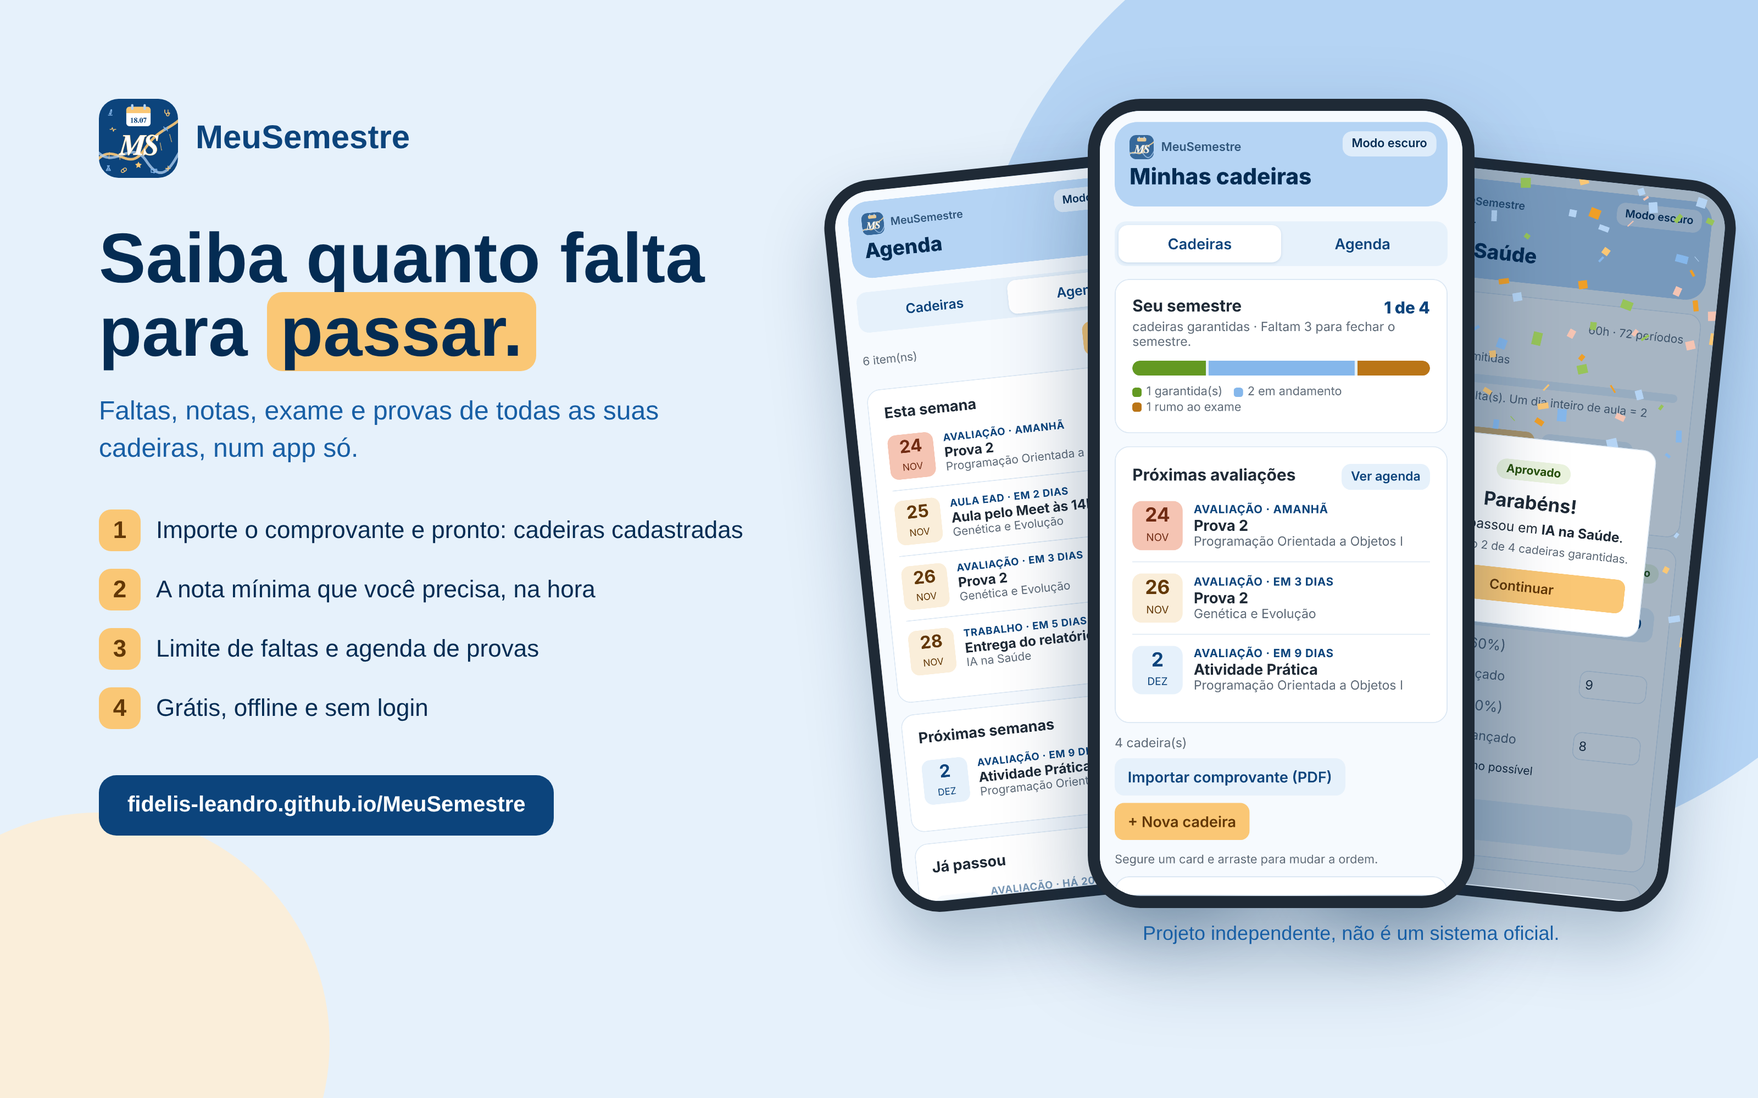
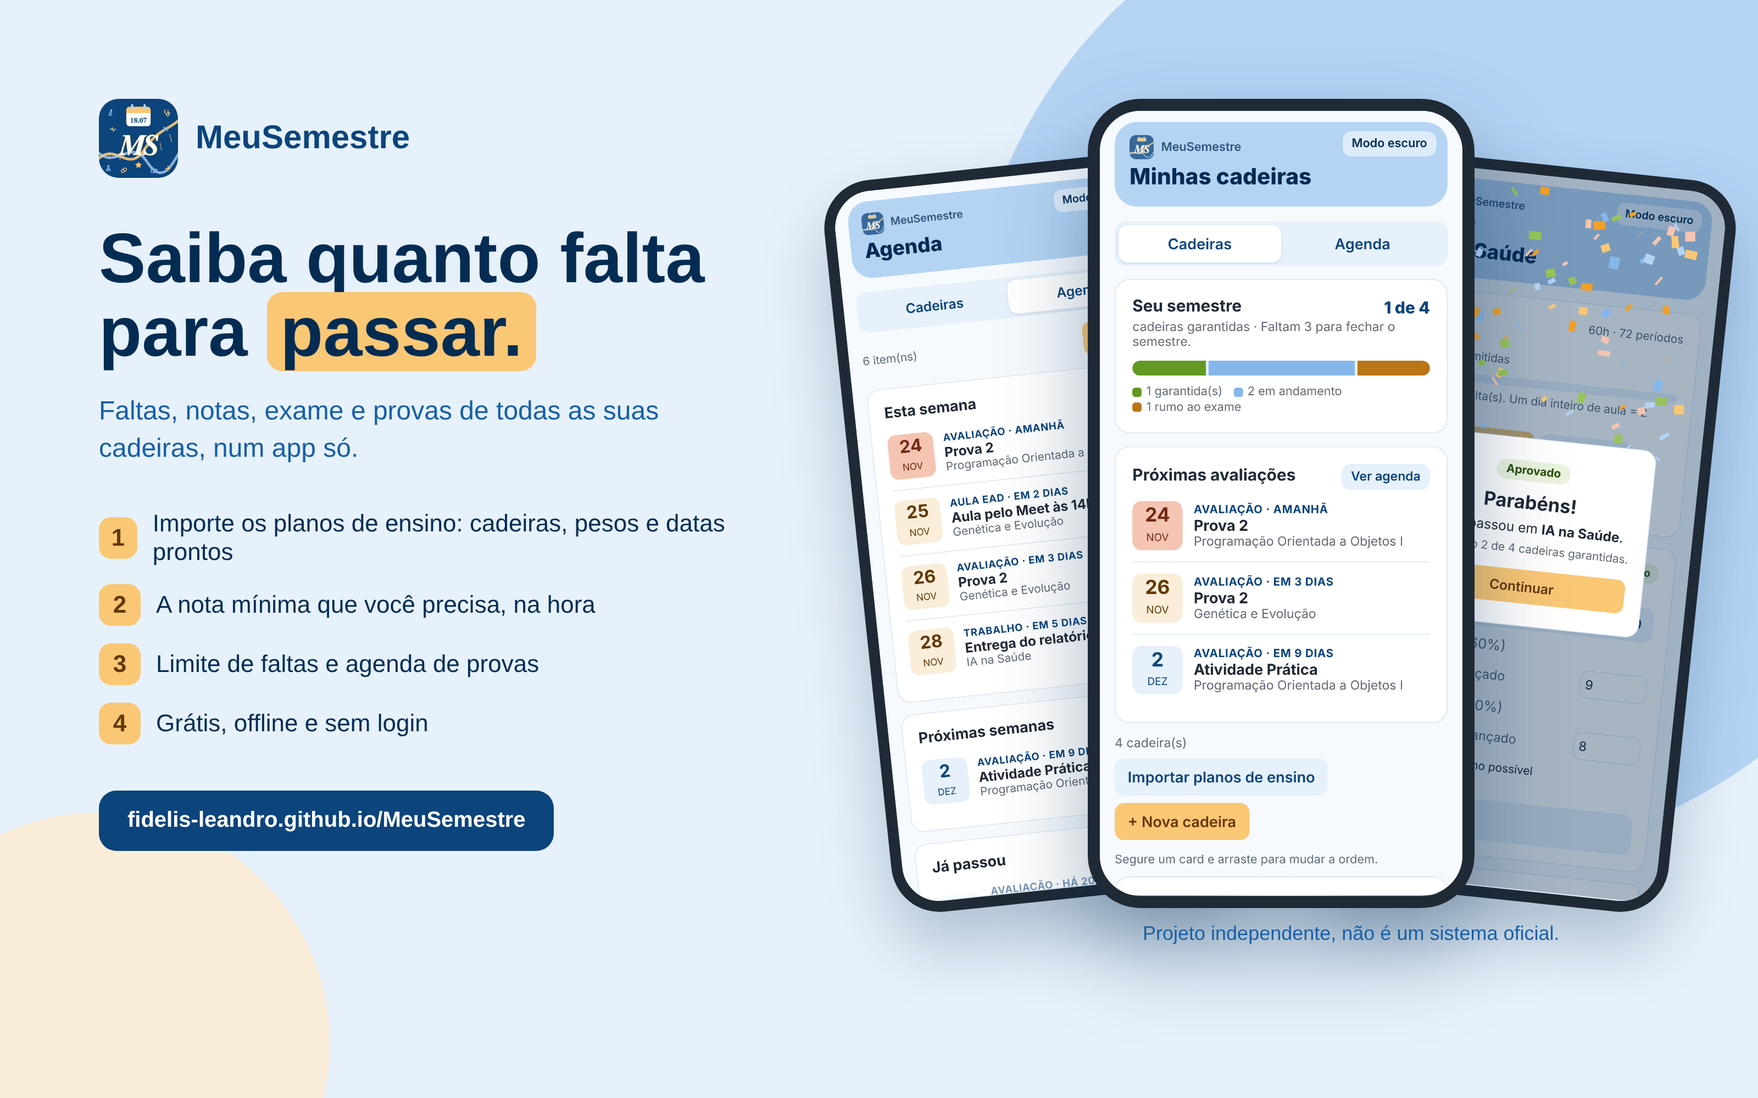
Add files via upload

diff --git a/index.html b/index.html
@@ -213,8 +213,8 @@ function achar(i){ return dados.cadeiras.find(c=>c.id===i); }
 
 function telaLista(){
   const prox=itensAgenda().filter(x=>diasAte(x.data)>=0 && x.tipo==="Avaliação" && !x.lancada).slice(0,3);
-  let h=abas("lista")+avisoBackup()+termometro()+(prox.length?`<div class="card"><div class="linha entre"><h2>Próximas avaliações</h2><button class="sec mini" onclick="ir('agenda')">Ver agenda</button></div>${prox.map(itemAgendaHTML).join("")}</div>`:"")+`<div class="linha entre" style="margin-bottom:14px"><span class="meta">${dados.cadeiras.length} cadeira(s)</span><div class="linha"><button class="sec" onclick="document.getElementById('pdf-in').click()">Importar comprovante (PDF)</button><button onclick="ir('form')">+ Nova cadeira</button></div></div>
-  <input type="file" id="pdf-in" accept="application/pdf" style="display:none" onchange="importarPDF(this.files[0]);this.value=''">
+  let h=abas("lista")+avisoBackup()+termometro()+(prox.length?`<div class="card"><div class="linha entre"><h2>Próximas avaliações</h2><button class="sec mini" onclick="ir('agenda')">Ver agenda</button></div>${prox.map(itemAgendaHTML).join("")}</div>`:"")+`<div class="linha entre" style="margin-bottom:14px"><span class="meta">${dados.cadeiras.length} cadeira(s)</span><div class="linha"><button class="sec" onclick="document.getElementById('pdf-in').click()">Importar planos de ensino</button><button onclick="ir('form')">+ Nova cadeira</button></div></div>
+  <input type="file" id="pdf-in" accept="application/pdf,.pdf" multiple style="display:none" onchange="importarPlanos(this.files);this.value=''">
   <div id="imp-msg"></div>`;
   if(!dados.cadeiras.length) return abas("lista")+`
     <div class="card" style="text-align:center;padding:24px 18px">
@@ -222,14 +222,14 @@ function telaLista(){
       <div class="meta" style="margin:6px 0 18px">Cadastre suas cadeiras para acompanhar faltas, notas e provas.</div>
       <div style="background:var(--primaria-clara);border-radius:14px;padding:16px;text-align:left">
         <div class="tag" style="margin-bottom:4px">Mais rápido</div>
-        <div style="font-weight:700;font-size:1.05rem;color:var(--primaria)">Importar o comprovante de matrícula</div>
-        <div class="meta" style="margin:6px 0 12px">Baixe o <b>Comprovante de Matrícula</b> em PDF no portal do aluno e escolha o arquivo aqui. O app cadastra todas as cadeiras, com carga horária e horários das aulas. O arquivo é lido só no seu celular e não é enviado para lugar nenhum.</div>
-        <button style="width:100%" onclick="document.getElementById('pdf-in').click()">Escolher o PDF do comprovante</button>
+        <div style="font-weight:700;font-size:1.05rem;color:var(--primaria)">Importar os planos de ensino</div>
+        <div class="meta" style="margin:6px 0 12px">Baixe o <b>Plano de Ensino</b> de cada cadeira em PDF (no Moodle ou com o professor) e escolha todos de uma vez. O app cadastra as cadeiras com carga horária, horários, avaliações, pesos e datas de prova. O plano é um documento público da disciplina, sem dados pessoais.</div>
+        <button style="width:100%" onclick="document.getElementById('pdf-in').click()">Escolher os planos de ensino (PDF)</button>
       </div>
       <div class="meta" style="margin:14px 0 8px">ou</div>
       <button class="sec" style="width:100%" onclick="ir('form')">Cadastrar uma cadeira manualmente</button>
     </div>
-    <input type="file" id="pdf-in" accept="application/pdf,.pdf" style="display:none" onchange="importarPDF(this.files[0]);this.value=''">
+    <input type="file" id="pdf-in" accept="application/pdf,.pdf" multiple style="display:none" onchange="importarPlanos(this.files);this.value=''">
     <div id="imp-msg"></div>`+cardBackup();
   const manual=dados.ordem==="manual";
   h+=`<div class="meta" style="font-size:.8rem;margin:4px 0 10px">Segure um card e arraste para mudar a ordem.</div><div id="lista-cad">`;
@@ -413,7 +413,7 @@ function telaSobre(){
       ${lk("https://github.com/Fidelis-Leandro","Outros projetos")}
     </div></div>
   <div class="card"><h2>Seus dados</h2>
-    <div class="meta" style="margin-top:6px">Tudo o que você cadastra fica salvo só neste aparelho. Não há login, servidor nem coleta de dados. O comprovante de matrícula é lido no próprio celular e não é enviado para lugar nenhum. Use o backup para levar seus dados para outro aparelho.</div></div>
+    <div class="meta" style="margin-top:6px">Tudo o que você cadastra fica salvo só neste aparelho. Não há login, servidor nem coleta de dados. Os planos de ensino são lidos no próprio celular e não são enviados para lugar nenhum. Use o backup para levar seus dados para outro aparelho.</div></div>
   <div class="card"><h2>Aviso</h2>
     <div class="meta" style="margin-top:6px">Este é um projeto independente e não é um sistema oficial da UFCSPA. Os cálculos seguem as regras de média 7, exame com média final 6 e presença mínima de 75%. Em caso de dúvida, confira sempre no portal oficial.</div></div>`;
 }
@@ -576,9 +576,8 @@ function restaurarBackup(){
   _backupPendente=null; salvar(); ir("lista");
 }
 
-/* ---------- Importar comprovante de matrícula (PDF) ---------- */
+/* ---------- Leitura de PDF ---------- */
 const PDFJS=new URL("./",location.href).href;
-let _importadas=[];
 // Safari antigo não sabe percorrer ReadableStream com "for await"; o PDF.js precisa disso.
 function polyfillStream(){
   if(typeof ReadableStream==="undefined" || ReadableStream.prototype[Symbol.asyncIterator]) return;
@@ -599,49 +598,148 @@ async function linhasDoPDF(arquivo){
   }
   return linhas;
 }
-function lerComprovante(linhas){
-  const cad={}, ordem=[];
-  const reCad=/^([A-Z]{2,4}\d{4,5})\s+(\S{1,3})\s+(\d{3,5})\s+(.+?)\s+(\d{2,3})$/;
-  const reAula=/^(Segunda|Terça|Quarta|Quinta|Sexta|Sábado|Domingo)\S*\s+(\d{1,2}):(\d{2})\s+(\d{1,2}):(\d{2}).*?([A-Z]{2,4}\d{4,5})\s*-/;
-  linhas.forEach(l=>{
-    let m=l.match(reCad);
-    if(m){ if(!cad[m[1]]){ cad[m[1]]={codigo:m[1],nome:m[4],ch:+m[5],aulas:[]}; ordem.push(m[1]); } return; }
-    m=l.match(reAula);
-    if(m && cad[m[6]]){ const min=(+m[4]*60+ +m[5])-(+m[2]*60+ +m[3]); cad[m[6]].aulas.push({dia:m[1],periodos:Math.max(1,Math.round(min/50))}); }
-  });
-  return ordem.map(k=>cad[k]);
+/* ---------- Importar plano de ensino (PDF) ---------- */
+const DIAS=["Segunda","Terça","Quarta","Quinta","Sexta","Sábado","Domingo"];
+const ROMANOS={i:1,ii:2,iii:3,iv:4,v:5};
+function semAcento(t){ return t.normalize("NFD").replace(/[̀-ͯ]/g,"").toLowerCase(); }
+function limparNomeAval(tipo,desc){
+  let n=desc.replace(/\s+/g," ").trim().replace(/[,.;\s]+$/,"");
+  n=n.replace(/\s*(valendo|vale|com peso|de peso)\b.*$/i,"").trim();
+  if(n.includes(":")) n=n.split(":")[0].trim();
+  if(n.length>32){ const c=n.split(/[,.;(]/)[0].trim(); n=c.length<=32?c:""; }
+  if(!n || /^(prova|trabalho)$/i.test(n)&&false) n="";
+  if(!n){ const t=semAcento(tipo); n=t.includes("prova")?"Prova":t.includes("trabalho")?"Trabalho":t.includes("apresenta")?"Apresentação":"Atividade"; }
+  return n.charAt(0).toUpperCase()+n.slice(1);
 }
-async function importarPDF(f){
-  if(!f) return;
+function numeroDe(t){
+  const s=semAcento(t);
+  let m=s.match(/(?:prova|avaliacao|av)\s*0?(\d)\b/)||s.match(/\b0?(\d)\s*[ªaº]?\s*(?:prova|avaliacao)/);
+  if(m) return +m[1];
+  m=s.match(/\b(iv|v|i{1,3})\s*(?:prova|avaliacao)/)||s.match(/(?:prova|avaliacao)\s+(iv|v|i{1,3})\b/);
+  return m?ROMANOS[m[1]]:null;
+}
+function lerPlano(linhas){
+  const txt=linhas.join("\n");
+  const pega=re=>{ const m=txt.match(re); return m?m[1].trim():""; };
+  const codigo=pega(/C[óo]digo da Disciplina:\s*([A-Z]{2,5}\d{3,6})/);
+  const nome=pega(/Nome da Disciplina:\s*(.+)/);
+  if(!codigo && !nome) return null;
+  const ch=+pega(/Carga Hor[áa]ria Total \(horas\):\s*(\d+)/)||60;
+  const ano=+pega(/\bANO:\s*(\d{4})/)||new Date().getFullYear();
+  const aulas=[]; const diasTxt=pega(/Dia\(s\) da Semana:\s*(.+)/);
+  for(const m of diasTxt.matchAll(/(Segunda|Terça|Quarta|Quinta|Sexta|Sábado|Domingo)\S*\s*\((\d{1,2}):(\d{2})\s*-\s*(\d{1,2}):(\d{2})\)/g)){
+    const min=(+m[4]*60+ +m[5])-(+m[2]*60+ +m[3]); aulas.push({dia:m[1],periodos:Math.max(1,Math.round(min/50))});
+  }
+  // avaliações
+  const ini=linhas.findIndex(l=>/Crit[ée]rios de Avalia/i.test(l)); let avaliacoes=[];
+  if(ini>=0){
+    let bloco=[]; for(let i=ini+1;i<linhas.length;i++){ const l=linhas[i]; if(/^(Bibliografia|Recupera|Observa|BLOCO|Plano de Ensino|Cronograma)/i.test(l)) break; bloco.push(l); }
+    const itens=[]; bloco.forEach(l=>{ if(/^[A-ZÀ-Ú][^\-]{1,45}?\s-\s/.test(l)||!itens.length) itens.push(l); else itens[itens.length-1]+=" "+l; });
+    itens.forEach(it=>{
+      const m=it.match(/^(.+?)\s-\s(.+)$/); if(!m) return;
+      const pesos=[...it.matchAll(/de peso\s*(\d+(?:[.,]\d+)?)/gi)]; if(!pesos.length) return;
+      const tipo=m[1].trim(), desc=m[2].replace(/,\s*de peso\s*\d+(?:[.,]\d+)?\s*%?\.?\s*$/i,"");
+      const peso=parseFloat(pesos[pesos.length-1][1].replace(",","."));
+      const pct=desc.match(/(\d+(?:[.,]\d+)?)\s*%/);
+      avaliacoes.push({tipo,nome:limparNomeAval(tipo,desc),peso,pct:pct?parseFloat(pct[1].replace(",",".")):0,texto:tipo+" "+desc});
+    });
+    if(avaliacoes.length && avaliacoes.every(a=>!a.peso)) avaliacoes.forEach(a=>a.peso=a.pct);
+    const soma=avaliacoes.reduce((t,a)=>t+a.peso,0);
+    if(soma>0){ let acc=0; avaliacoes.forEach((a,i)=>{ a.peso=i<avaliacoes.length-1?Math.round(a.peso*1000/soma)/10:Math.round((100-acc)*10)/10; acc+=a.peso; }); }
+    const vistos={}; avaliacoes.forEach(a=>{ const k=a.nome.toLowerCase(); vistos[k]=(vistos[k]||0)+1; if(vistos[k]>1) a.nome+=" "+vistos[k]; });
+  }
+  // cronograma
+  const reData=new RegExp(`^(\\d{2})/(\\d{2})(?:/(\\d{2,4}))?\\s+(${DIAS.join("|")})\\b\\s*(.*)$`);
+  const ci=linhas.findIndex(l=>/CRONOGRAMA/i.test(l)); const fim=linhas.findIndex((l,i)=>i>ci&&/^Data de Conclus/i.test(l));
+  const corpo=ci>=0?linhas.slice(ci,fim>0?fim:linhas.length).filter(l=>!/^(Plano de Ensino|PROGRAD\/PROPPGI|\d+\s*\/\s*\d+)$/.test(l.trim())):[];
+  const idx=[]; corpo.forEach((l,i)=>{ if(reData.test(l)) idx.push(i); });
+  const aulasPlano=idx.map((p,k)=>{
+    const de=k?Math.floor((idx[k-1]+p)/2)+1:p, ate=k<idx.length-1?Math.floor((p+idx[k+1])/2):Math.min(corpo.length-1,p+4);
+    const m=corpo[p].match(reData), resto=m[5];
+    const tm=resto.match(/^((?:[A-Z])(?:\s*,\s*[A-Z])*)(?=\s|$)/);
+    return {data:`${m[3]?(m[3].length===2?"20"+m[3]:m[3]):ano}-${m[2]}-${m[1]}`,dia:m[4],turmas:tm?tm[1].split(/\s*,\s*/):[],texto:corpo.slice(de,ate+1).join(" ")};
+  });
+  const turmas=[...new Set(aulasPlano.filter(a=>a.turmas.length===1).map(a=>a.turmas[0]))].sort();
+  return {codigo,nome,ch,aulas,avaliacoes,aulasPlano,turmas:turmas.length>1?turmas:[],turma:turmas.length>1?turmas[0]:null,marcada:true,ead:true,datas:true};
+}
+function datasDoPlano(p){
+  const rows=p.aulasPlano.filter(a=>!p.turma||!a.turmas.length||a.turmas.includes(p.turma));
+  const s=r=>semAcento(r.texto);
+  const exame=rows.find(r=>/\bexame\b/.test(s(r)) && !/para o exame|orientac/.test(s(r)));
+  const provas=rows.filter(r=>r!==exame && /\bprova\b|\bavaliacao\b/.test(s(r)) && !/revis|correc|vista|devolu|plano de ensino|metodo de avaliacao|avaliacao formativa/.test(s(r)));
+  const ehEad=r=>/moodle|distancia|\bead\b/.test(s(r)) && !/\bpresencial\b/.test(s(r).replace(/presencial\./g,""));
+  const presenciais=new Set(rows.filter(r=>!ehEad(r)).map(r=>r.data));
+  const ead=[...new Map(rows.filter(r=>ehEad(r)&&!presenciais.has(r.data)&&r!==exame).map(r=>[r.data,r])).values()];
+  const usados=new Set(), datas={};
+  const ehProva=a=>/prova|avalia/.test(semAcento(a.texto)) && !/trabalho|semin|apresenta|questionar|atividades de aula/.test(semAcento(a.nome));
+  p.avaliacoes.forEach((a,i)=>{ if(!ehProva(a)) return; const n=numeroDe(a.nome);
+    let r=n?provas.find(r=>!usados.has(r)&&numeroDe(r.texto)===n):null;
+    if(!r) r=provas.find(r=>!usados.has(r)); if(r){ usados.add(r); datas[i]=r.data; } });
+  return {datas,exame:exame?exame.data:null,ead};
+}
+function aulasDoPlano(p){
+  const rows=p.aulasPlano.filter(a=>(!p.turma||!a.turmas.length||a.turmas.includes(p.turma)) && !/moodle|distancia/.test(semAcento(a.texto)));
+  const cont={}; rows.forEach(r=>cont[r.dia]=(cont[r.dia]||0)+1);
+  const dias=DIAS.filter(d=>(cont[d]||0)>=3);
+  if(!dias.length) return p.aulas;
+  const padrao=p.aulas[0]?p.aulas[0].periodos:2;
+  return dias.map(d=>{ const a=p.aulas.find(x=>x.dia===d); return {dia:d,periodos:a?a.periodos:padrao}; });
+}
+let _planos=[];
+async function importarPlanos(lista){
+  const arqs=[...(lista||[])]; if(!arqs.length) return;
   const msg=document.getElementById("imp-msg");
-  msg.innerHTML=`<div class="card meta">Lendo o comprovante...</div>`;
-  try{
-    _importadas=lerComprovante(await linhasDoPDF(f));
-    if(!_importadas.length){ msg.innerHTML=`<div class="card" style="color:var(--erro)">Não encontrei cadeiras neste PDF. Use o Comprovante de Matrícula gerado pelo Portal do Aluno.</div>`; return; }
-    _importadas.forEach(c=>c.marcada=!dados.cadeiras.some(x=>x.codigo===c.codigo));
-    ir("importar");
-  }catch(e){ console.error(e); msg.innerHTML=`<div class="card"><div style="color:var(--erro);font-weight:700">Não consegui ler este PDF.</div>
-    <div class="meta" style="margin-top:6px">Confira se é o Comprovante de Matrícula baixado do portal (não uma foto ou print). Se continuar, cadastre as cadeiras manualmente em "+ Nova cadeira".</div>
-    <div class="meta" style="margin-top:6px;font-size:.75rem">Detalhe técnico: ${esc(e&&e.message||String(e))}</div></div>`; }
+  msg.innerHTML=`<div class="card meta">Lendo ${arqs.length} plano(s) de ensino...</div>`;
+  const lidos=[], falhas=[]; let erro=null;
+  for(const f of arqs){
+    try{ const p=lerPlano(await linhasDoPDF(f)); if(p) lidos.push(p); else falhas.push(f.name); }
+    catch(e){ console.error(e); erro=e; falhas.push(f.name); }
+  }
+  if(!lidos.length){ msg.innerHTML=`<div class="card"><div style="color:var(--erro);font-weight:700">Não consegui ler ${arqs.length>1?"esses PDFs":"este PDF"}.</div>
+    <div class="meta" style="margin-top:6px">Use o <b>Plano de Ensino</b> da disciplina em PDF, do jeito que o professor disponibilizou (não uma foto ou print). Se continuar, cadastre a cadeira em "+ Nova cadeira".</div>
+    ${erro?`<div class="meta" style="margin-top:6px;font-size:.75rem">Detalhe técnico: ${esc(erro.message||String(erro))}</div>`:""}</div>`; return; }
+  const vistos=new Set(); _planos=lidos.filter(p=>{ const k=p.codigo||p.nome; if(vistos.has(k)) return false; vistos.add(k); return true; });
+  _planos.falhas=falhas; ir("importar");
 }
+function cadeiraDoPlano(p){ return dados.cadeiras.find(c=>(p.codigo&&c.codigo===p.codigo)||semAcento(c.nome)===semAcento(p.nome)); }
+function temNotas(c){ return c.avaliacoes.some(a=>notaDe(a)!==null||(a.subs||[]).some(s=>num(s.nota)!==null)); }
 function telaImportar(){
-  let h=`<div class="card meta">Encontrei ${_importadas.length} cadeira(s). Desmarque as que não quiser. Depois, abra cada cadeira para cadastrar as avaliações e os pesos.</div>`;
-  _importadas.forEach((c,i)=>{
-    const ja=dados.cadeiras.some(x=>x.codigo===c.codigo);
-    h+=`<label class="card" style="display:flex;gap:12px;align-items:flex-start;cursor:pointer;margin:0 0 10px">
-      <input type="checkbox" style="width:22px;height:22px;flex:none;margin-top:4px" ${c.marcada?"checked":""} onchange="_importadas[${i}].marcada=this.checked">
-      <div><div class="rotulo">${esc(c.codigo)} &middot; ${c.ch}h &middot; até ${faltasMax(c.ch)} faltas</div>
-      <div style="color:var(--texto);font-weight:700;font-size:1.05rem;margin:2px 0">${esc(c.nome)}</div>
-      <div>${c.aulas.length?c.aulas.map(a=>`${a.dia} (${a.periodos} períodos)`).join(" &middot; "):"Sem horário no comprovante"}</div>
-      ${ja?`<div style="color:var(--exame)">Já cadastrada</div>`:""}</div></label>`;
+  let h=`<div class="card meta">Encontrei ${_planos.length} cadeira(s). Confira os dados e desmarque o que não quiser. Depois dá para ajustar tudo em "Editar cadeira".</div>`;
+  if(_planos.falhas&&_planos.falhas.length) h+=`<div class="card" style="color:var(--exame)">Não consegui ler: ${_planos.falhas.map(esc).join(", ")}</div>`;
+  _planos.forEach((p,i)=>{
+    const ja=cadeiraDoPlano(p), d=datasDoPlano(p), trava=ja&&temNotas(ja);
+    h+=`<div class="card"><label style="display:flex;gap:12px;align-items:flex-start;cursor:pointer">
+      <input type="checkbox" style="width:22px;height:22px;flex:none;margin-top:4px" ${p.marcada?"checked":""} onchange="_planos[${i}].marcada=this.checked">
+      <div style="flex:1"><div class="rotulo">${esc(p.codigo)} &middot; ${p.ch}h &middot; até ${faltasMax(p.ch)} faltas</div>
+      <div class="nome-cad" style="margin:2px 0">${esc(p.nome)}</div>
+      <div class="meta">${aulasDoPlano(p).length?aulasDoPlano(p).map(a=>`${a.dia} (${a.periodos} períodos)`).join(" &middot; "):"Sem horário no plano"}</div>
+      ${ja?`<div style="color:var(--exame);font-size:.85rem;margin-top:4px">${trava?"Já cadastrada e com notas: só datas e horários serão atualizados.":"Já cadastrada: será atualizada com os dados do plano."}</div>`:""}</div></label>`;
+    if(p.turmas.length) h+=`<label>Sua turma (o cronograma muda por turma)</label><select onchange="_planos[${i}].turma=this.value;render()">${p.turmas.map(t=>`<option ${t===p.turma?"selected":""}>${t}</option>`).join("")}</select>`;
+    h+=`<div style="margin-top:12px;font-weight:700">Avaliações</div>`;
+    h+=p.avaliacoes.length?p.avaliacoes.map((a,j)=>`<div class="linha entre" style="padding:6px 0;border-bottom:1px solid var(--borda)"><span>${esc(a.nome)}${d.datas[j]?` <span class="meta">&middot; ${dataCurta(d.datas[j])}</span>`:""}</span><b>${fmt(a.peso)}%</b></div>`).join("")
+      :`<div class="meta">Não encontrei as avaliações neste plano. Cadastre depois em "Editar cadeira".</div>`;
+    const extra=[]; if(d.exame) extra.push(`Exame em ${dataCurta(d.exame)}`);
+    if(Object.keys(d.datas).length||d.exame) h+=`<label style="display:flex;gap:8px;align-items:center;margin-top:10px;color:var(--texto)"><input type="checkbox" style="width:20px;height:20px" ${p.datas?"checked":""} onchange="_planos[${i}].datas=this.checked"> Usar as datas de prova do cronograma${extra.length?` (${extra.join(", ")})`:""}</label>`;
+    if(d.ead.length) h+=`<label style="display:flex;gap:8px;align-items:center;margin-top:6px;color:var(--texto)"><input type="checkbox" style="width:20px;height:20px" ${p.ead?"checked":""} onchange="_planos[${i}].ead=this.checked"> Adicionar ${d.ead.length} aula(s) EAD à agenda</label>`;
+    h+=`</div>`;
   });
-  return h+`<button onclick="confirmarImportacao()">Adicionar cadeiras marcadas</button>`;
+  return h+`<button style="width:100%" onclick="confirmarImportacao()">Adicionar cadeiras marcadas</button>`;
 }
 function confirmarImportacao(){
-  _importadas.filter(c=>c.marcada).forEach(c=>{
-    dados.cadeiras.push({id:id(),codigo:c.codigo,nome:c.nome,ch:c.ch,periodosDia:c.aulas[0]?.periodos||2,aulas:c.aulas,faltas:0,exame:null,avaliacoes:[]});
+  _planos.filter(p=>p.marcada).forEach(p=>{
+    const d=datasDoPlano(p);
+    let c=cadeiraDoPlano(p);
+    const avs=p.avaliacoes.map((a,j)=>({id:id(),nome:a.nome,peso:a.peso,nota:null,data:p.datas&&d.datas[j]||""}));
+    if(!c){ c={id:id(),faltas:0,exame:null,avaliacoes:avs}; dados.cadeiras.push(c); }
+    else if(!temNotas(c)) c.avaliacoes=avs;
+    else if(p.datas) c.avaliacoes.forEach(a=>{ const j=p.avaliacoes.findIndex(x=>semAcento(x.nome)===semAcento(a.nome)); if(j>=0&&d.datas[j]&&!a.data) a.data=d.datas[j]; });
+    Object.assign(c,{codigo:p.codigo,nome:c.nome||p.nome,ch:p.ch,turma:p.turma||c.turma});
+    const au=aulasDoPlano(p); if(au.length){ c.aulas=au; c.periodosDia=au[0].periodos; } else c.periodosDia=c.periodosDia||2;
+    const novoEvento=(data,tipo,obs)=>{ if(!dados.eventos.some(e=>e.cadeiraId===c.id&&e.data===data&&e.tipo===tipo)) dados.eventos.push({id:id(),data,cadeiraId:c.id,tipo,obs}); };
+    if(p.datas&&d.exame) novoEvento(d.exame,"Prova","Exame");
+    if(p.ead) d.ead.forEach(r=>novoEvento(r.data,"Aula EAD","Aula a distância (Moodle)"));
   });
-  salvar(); _importadas=[]; ir("lista");
+  salvar(); _planos=[]; ir("lista");
 }
 
 /* ---------- Tema e PWA ---------- */

diff --git a/sw.js b/sw.js
@@ -1,5 +1,5 @@
 // MeuSemestre: funciona offline. Mude a versão ao publicar arquivos novos.
-const CACHE = "meusemestre-v13";
+const CACHE = "meusemestre-v14";
 const ARQUIVOS = ["./", "index.html", "manifest.json", "icon-192.png", "icon-512.png", "pdf.min.js", "pdf.worker.min.js", "pdf-worker.js", "stream-polyfill.js"];
 
 self.addEventListener("install", e => {

diff --git a/README.md b/README.md
@@ -18,7 +18,7 @@ Controle de faltas e notas para alunos da UFCSPA. Cadastre suas cadeiras e o app
 - **Cálculo do exame:** se a média ficar entre 4 e 6,9, mostra a nota necessária no exame.
 - **Agenda:** adicione a data de cada avaliação e eventos avulsos (trabalhos, seminários, datas limite). A agenda separa em "Esta semana", "Próximas semanas" e "Já passou", e a tela inicial mostra as próximas avaliações.
 - **Simulador:** teste uma nota hipotética e veja se você passaria direto, iria para exame ou reprovaria.
-- **Importar matrícula:** anexe o Comprovante de Matrícula (PDF) e o app cadastra todas as cadeiras, com carga horária e os períodos de cada dia de aula. O PDF é lido no próprio navegador, sem enviar nada para servidor.
+- **Importar planos de ensino:** escolha os PDFs dos planos de ensino de todas as cadeiras de uma vez. O app cadastra cada cadeira com carga horária, dias de aula, avaliações, pesos, datas de prova e exame, e aulas EAD na agenda. O plano é um documento público da disciplina, sem dados pessoais, e é lido no próprio navegador.
 - **Backup:** salve todos os dados num arquivo e restaure em outro aparelho. O app lembra de fazer backup a cada 7 dias.
 - **App instalável (PWA):** adicione à tela inicial e ele abre como um app, com ícone próprio. Depois da primeira visita, funciona totalmente offline, inclusive a leitura do PDF.
 - **Modo escuro:** segue o tema do celular automaticamente, ou pode ser escolhido manualmente.
